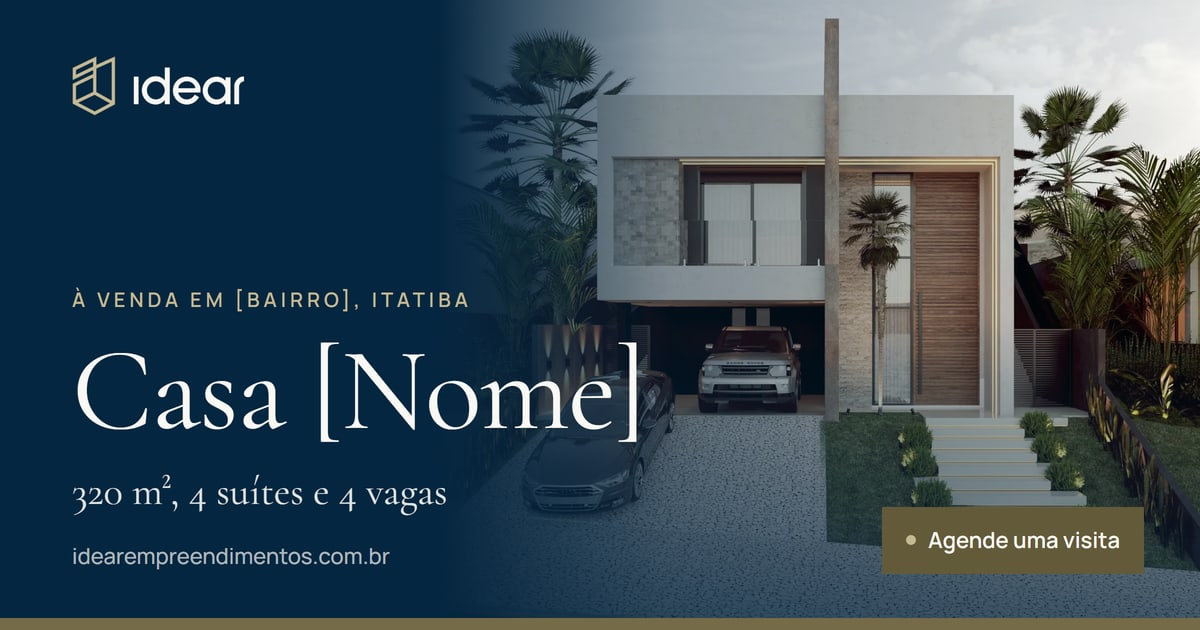
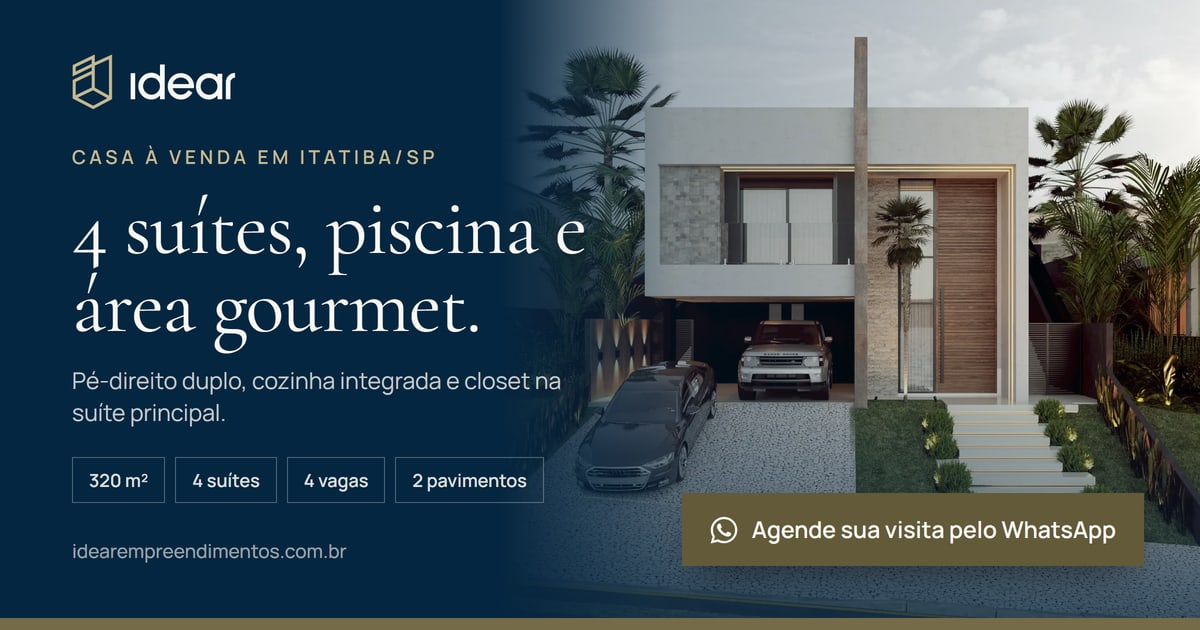
Tira os nomes das casas e refaz as capas de link
- Casa à venda passa a ser "Casa à venda em Itatiba" e é resumida como
  "4 suítes, piscina e área gourmet"; casas entregues aparecem pela
  metragem e pelo ano
- Capas de link com título, linha de apoio, etiquetas de destaque e
  chamada em bronze com ícone do WhatsApp
- Títulos e descrições de compartilhamento reescritos para a casa à venda
  e para a home

diff --git a/components/CapaLink.tsx b/components/CapaLink.tsx
@@ -1,4 +1,5 @@
 import Image from "next/image";
+import WhatsAppIcon from "./WhatsAppIcon";
 
 /*
  * Arte da capa de compartilhamento (Open Graph), 1200x630.
@@ -11,54 +12,65 @@ type Props = {
   chamada: string;
   titulo: string;
   tamanhoTitulo: number;
-  linha?: string;
-  selo?: string;
+  subtitulo?: string;
+  itens?: string[];
+  /** chamada para ação no botão em bronze (com ícone do WhatsApp) */
+  acao: string;
 };
 
-export default function CapaLink({ foto, posicaoFoto = "50% 45%", chamada, titulo, tamanhoTitulo, linha, selo }: Props) {
+export default function CapaLink({ foto, posicaoFoto = "50% 45%", chamada, titulo, tamanhoTitulo, subtitulo, itens, acao }: Props) {
   return (
     // Cobre o resto da página: a captura pega só este quadro de 1200x630
     <div className="fixed inset-0 z-[100] bg-navy-deep">
       <div id="og" className="relative h-[630px] w-[1200px] overflow-hidden bg-navy-deep text-ivory">
         {/* Foto à direita, fundindo com o painel escuro */}
-        <div className="absolute inset-y-0 right-0 w-[760px]">
+        <div className="absolute inset-y-0 right-0 w-[700px]">
           <Image
             src={foto}
             alt=""
             fill
             priority
             quality={90}
-            sizes="760px"
+            sizes="700px"
             className="object-cover"
             style={{ objectPosition: posicaoFoto }}
           />
-          <div className="absolute inset-0 bg-gradient-to-r from-navy-deep via-navy-deep/40 via-30% to-transparent" />
-          <div className="absolute inset-x-0 bottom-0 h-1/2 bg-gradient-to-t from-navy-deep/70 to-transparent" />
+          <div className="absolute inset-0 bg-gradient-to-r from-navy-deep via-navy-deep/35 via-25% to-transparent" />
+          <div className="absolute inset-x-0 bottom-0 h-2/5 bg-gradient-to-t from-navy-deep/75 to-transparent" />
         </div>
 
         {/* Painel de texto */}
-        <div className="relative flex h-full w-[700px] flex-col justify-between py-[56px] pl-[72px]">
+        <div className="relative flex h-full w-[700px] flex-col justify-between pb-[64px] pl-[72px] pt-[54px]">
           <div className="flex items-center gap-4">
-            <Image src="/brand/simbolo-clara.png" alt="" width={416} height={570} className="h-[60px] w-auto" />
-            <Image src="/brand/idear-clara.png" alt="" width={738} height={250} className="h-[38px] w-auto" />
+            <Image src="/brand/simbolo-clara.png" alt="" width={416} height={570} className="h-[56px] w-auto" />
+            <Image src="/brand/idear-clara.png" alt="" width={738} height={250} className="h-[36px] w-auto" />
           </div>
 
           <div>
-            <p className="text-[20px] font-semibold uppercase tracking-[0.2em] text-bronze-light">{chamada}</p>
-            <p className="mt-5 font-serif leading-[0.94] tracking-[-0.015em]" style={{ fontSize: tamanhoTitulo }}>
+            <p className="text-[19px] font-semibold uppercase tracking-[0.2em] text-bronze-light">{chamada}</p>
+            <p className="mt-4 max-w-[600px] font-serif leading-[0.98] tracking-[-0.015em]" style={{ fontSize: tamanhoTitulo }}>
               {titulo}
             </p>
-            {linha ? <p className="mt-6 font-serif text-[40px] leading-none text-ivory/90">{linha}</p> : null}
-            <p className="mt-7 text-[22px] font-medium text-ivory/70">idearempreendimentos.com.br</p>
+            {subtitulo ? <p className="mt-5 max-w-[540px] text-[23px] leading-snug text-ivory/80">{subtitulo}</p> : null}
+            {itens?.length ? (
+              <ul className="mt-7 flex flex-wrap gap-2.5">
+                {itens.map((t) => (
+                  <li key={t} className="border border-ivory/30 px-4 py-2 text-[18px] font-semibold text-ivory/90">
+                    {t}
+                  </li>
+                ))}
+              </ul>
+            ) : null}
           </div>
+
+          <p className="text-[19px] font-medium text-ivory/60">idearempreendimentos.com.br</p>
         </div>
 
-        {selo ? (
-          <div className="absolute bottom-[56px] right-[56px] flex items-center gap-3 bg-bronze-dark px-6 py-4 text-[22px] font-semibold">
-            <span className="h-2.5 w-2.5 rounded-full bg-bronze-light" />
-            {selo}
-          </div>
-        ) : null}
+        {/* Chamada para ação */}
+        <div className="absolute bottom-[64px] right-[56px] flex items-center gap-3.5 bg-bronze-dark px-7 py-[18px] text-[23px] font-semibold shadow-[0_18px_40px_-16px_rgba(0,0,0,0.6)]">
+          <WhatsAppIcon className="h-7 w-7" />
+          {acao}
+        </div>
 
         {/* Faixa em bronze no rodapé, como nos outros projetos */}
         <div className="absolute inset-x-0 bottom-0 h-[12px] bg-bronze" />

diff --git a/components/CasasEntregues.tsx b/components/CasasEntregues.tsx
@@ -100,7 +100,7 @@ export default function CasasEntregues() {
                         i === ativa ? "text-navy" : "text-navy/35 group-hover:text-navy/60"
                       }`}
                     >
-                      {c.nome}
+                      Casa de {c.area} m²
                     </span>
                     <span className={`text-[15px] tabular-nums ${i === ativa ? "text-bronze-dark" : "text-stone"}`}>{c.ano}</span>
                   </span>
@@ -114,7 +114,7 @@ export default function CasasEntregues() {
               <Link href="/casa-a-venda" className="group relative block w-full py-7">
                 <span className="absolute inset-x-0 top-0 h-px bg-navy/15" aria-hidden />
                 <span className="flex items-baseline justify-between gap-6">
-                  <span className="font-serif text-[40px] leading-none text-bronze-dark">Casa {casaAtual.nome}</span>
+                  <span className="font-serif text-[40px] leading-none text-bronze-dark">Casa de {casaAtual.resumo.area} m²</span>
                   <span className="text-[15px] text-bronze-dark">À venda</span>
                 </span>
                 <span className="mt-2 flex items-center gap-2 text-[14px] font-semibold">
@@ -175,7 +175,7 @@ export default function CasasEntregues() {
                   </div>
                   <div className="absolute inset-x-0 bottom-0 p-5 text-ivory">
                     <p className="font-serif text-[18px] italic text-bronze-light">Entregue em {c.ano}</p>
-                    <h3 className="mt-1 font-serif text-[38px] leading-tight">{c.nome}</h3>
+                    <h3 className="mt-1 font-serif text-[38px] leading-tight">Casa de {c.area} m²</h3>
                     <p className="text-[14px] text-ivory/75">
                       {c.bairro}, {c.cidade}
                     </p>
@@ -191,7 +191,7 @@ export default function CasasEntregues() {
           <li className="w-[84vw] shrink-0 snap-start sm:w-[60vw]">
             <Link href="/casa-a-venda" className="flex aspect-[4/5] flex-col justify-end bg-navy p-6 text-ivory">
               <p className="text-[12px] font-semibold uppercase tracking-[0.2em] text-bronze-light">A próxima</p>
-              <p className="mt-3 font-serif text-[40px] leading-tight">Casa {casaAtual.nome}</p>
+              <p className="mt-3 font-serif text-[40px] leading-tight">{casaAtual.resumoCurto}</p>
               <p className="mt-2 text-[15px] text-ivory/75">
                 À venda, {casaAtual.resumo.area} m², {casaAtual.resumo.suites} suítes
               </p>

diff --git a/content/casas.ts b/content/casas.ts
@@ -2,7 +2,7 @@
  * Conteúdo das casas da Idear.
  *
  * Com uma casa à venda por vez, o conteúdo fica no próprio projeto (sem CMS).
- * Quando a casa atual for vendida: mova-a para `casasEntregues` e preencha
+ * Quando a casa atual for vendida: mova-a para `entregas` em content/empresa.ts e preencha
  * `casaAtual` com a próxima.
  *
  * PRÉVIA: tudo entre colchetes e os valores marcados com `provisorio` são
@@ -39,7 +39,10 @@ export type PontoProximo = { categoria: string; nome: string; tempo: string };
 
 export type CasaAtual = {
   slug: string;
-  nome: string;
+  /** Título da casa nas páginas (as casas não têm nome próprio) */
+  manchete: string;
+  /** Resumo curto do que a casa tem, usado em cartões e na capa do link */
+  resumoCurto: string;
   bairro: string;
   cidade: string;
   uf: string;
@@ -70,21 +73,13 @@ export type CasaAtual = {
   localizacao: { descricao: string; pontos: PontoProximo[] };
 };
 
-export type CasaEntregue = {
-  slug: string;
-  nome: string;
-  bairro: string;
-  cidade: string;
-  ano: string;
-  area: string;
-  imagem: Imagem;
-};
 
 const BASE = "/images/casa";
 
 export const casaAtual: CasaAtual = {
   slug: "casa-atual",
-  nome: "[Nome]",
+  manchete: "Casa à venda em Itatiba",
+  resumoCurto: "4 suítes, piscina e área gourmet",
   bairro: "[Bairro]",
   cidade: "Itatiba",
   uf: "SP",
@@ -277,24 +272,3 @@ export const casaAtual: CasaAtual = {
     ],
   },
 };
-
-export const casasEntregues: CasaEntregue[] = [
-  {
-    slug: "casa-entregue-1",
-    nome: "Casa [Nome]",
-    bairro: "[Bairro]",
-    cidade: "Itatiba",
-    ano: "[Ano]",
-    area: "[000] m²",
-    imagem: { src: null, alt: "Casa entregue", ilustrativa: false },
-  },
-  {
-    slug: "casa-entregue-2",
-    nome: "Casa [Nome]",
-    bairro: "[Bairro]",
-    cidade: "Itatiba",
-    ano: "[Ano]",
-    area: "[000] m²",
-    imagem: { src: null, alt: "Casa entregue", ilustrativa: false },
-  },
-];

diff --git a/app/og-cover/page.tsx b/app/og-cover/page.tsx
@@ -2,7 +2,6 @@ import type { Metadata } from "next";
 import { notFound } from "next/navigation";
 import CapaLink from "@/components/CapaLink";
 import { empresa } from "@/content/empresa";
-import { casaAtual } from "@/content/casas";
 
 /*
  * Capa de compartilhamento da home. Só existe em desenvolvimento:
@@ -15,14 +14,23 @@ export const metadata: Metadata = {
 
 export default function OgCover() {
   if (process.env.NODE_ENV === "production") notFound();
+  const n = (trecho: string) => empresa.numeros.find((x) => x.rotulo.includes(trecho));
+  const anos = n("anos construindo");
+  const casas = n("casas entregues");
   return (
     <CapaLink
       foto="/images/casa/fachada-perspectiva.webp"
-      posicaoFoto="55% 42%"
-      chamada="Itatiba/SP"
-      titulo={empresa.hero.titulo}
-      tamanhoTitulo={92}
-      selo={`À venda: Casa ${casaAtual.nome}`}
+      posicaoFoto="58% 42%"
+      chamada={`Incorporadora em ${empresa.cidade}/SP`}
+      titulo="Casas de alto padrão, do terreno às chaves."
+      tamanhoTitulo={66}
+      subtitulo="Uma casa por vez, com projeto, obra e entrega sob a mesma responsabilidade."
+      itens={[
+        anos ? `${anos.valor} anos` : "",
+        casas ? `${casas.valor} casas entregues` : "",
+        "Obras no prazo",
+      ].filter(Boolean)}
+      acao="Casa à venda: agende sua visita"
     />
   );
 }

diff --git a/app/casa-a-venda/page.tsx b/app/casa-a-venda/page.tsx
@@ -18,8 +18,8 @@ import Rodape from "@/components/Rodape";
 import WhatsAppFlutuante from "@/components/WhatsAppFlutuante";
 import BarraCelular from "@/components/BarraCelular";
 
-const titulo = `Casa ${casa.nome}: casa à venda em ${casa.bairro}, ${casa.cidade} | ${site.nome}`;
-const descricao = `${casa.resumo.area} m², ${casa.resumo.suites} suítes e ${casa.resumo.vagas} vagas em ${casa.bairro}, ${casa.cidade}. Pé-direito duplo, área gourmet com churrasqueira e piscina. Agende uma visita.`;
+const titulo = `Casa à venda em ${casa.cidade}: ${casa.resumo.area} m², ${casa.resumo.suites} suítes e piscina | Idear`;
+const descricao = `Pé-direito duplo, área gourmet com churrasqueira, piscina e ${casa.resumo.suites} suítes. Agende sua visita com a Idear pelo WhatsApp.`;
 
 export const metadata: Metadata = {
   title: titulo,
@@ -39,7 +39,7 @@ function DadosEstruturados() {
   const json = {
     "@context": "https://schema.org",
     "@type": "SingleFamilyResidence",
-    name: `Casa ${casa.nome}`,
+    name: casa.manchete,
     description: casa.apresentacao.join(" "),
     url: `${site.url}/casa-a-venda`,
     image: casa.galeria.map((g) => `${site.url}${g.src}`),

diff --git a/app/og-cover/casa/page.tsx b/app/og-cover/casa/page.tsx
@@ -14,15 +14,22 @@ export const metadata: Metadata = {
 
 export default function OgCoverCasa() {
   if (process.env.NODE_ENV === "production") notFound();
+  const pavimentos = casa.ficha.find((f) => f.rotulo === "Pavimentos")?.valor;
   return (
     <CapaLink
       foto="/images/casa/fachada-frontal.webp"
-      posicaoFoto="50% 40%"
-      chamada={`À venda em ${casa.bairro}, ${casa.cidade}`}
-      titulo={`Casa ${casa.nome}`}
-      tamanhoTitulo={118}
-      linha={`${casa.resumo.area} m², ${casa.resumo.suites} suítes e ${casa.resumo.vagas} vagas`}
-      selo="Agende uma visita"
+      posicaoFoto="52% 40%"
+      chamada={`Casa à venda em ${casa.cidade}/${casa.uf}`}
+      titulo={`${casa.resumoCurto}.`}
+      tamanhoTitulo={80}
+      subtitulo="Pé-direito duplo, cozinha integrada e closet na suíte principal."
+      itens={[
+        `${casa.resumo.area} m²`,
+        `${casa.resumo.suites} suítes`,
+        `${casa.resumo.vagas} vagas`,
+        pavimentos ? `${pavimentos} pavimentos` : "",
+      ].filter(Boolean)}
+      acao="Agende sua visita pelo WhatsApp"
     />
   );
 }

diff --git a/content/empresa.ts b/content/empresa.ts
@@ -9,7 +9,6 @@ const BASE = "/images/casa";
 
 export type Entrega = {
   slug: string;
-  nome: string;
   bairro: string;
   cidade: string;
   ano: string;
@@ -100,8 +99,7 @@ export const empresa = {
   /** Casas entregues (exemplos para a prévia; trocar pelas casas reais com fotos reais) */
   entregas: [
     {
-      slug: "casa-jacaranda",
-      nome: "Casa Jacarandá",
+      slug: "casa-2024",
       bairro: "[Bairro]",
       cidade: "Itatiba",
       ano: "2024",
@@ -114,8 +112,7 @@ export const empresa = {
       alt: "Área externa com piscina e deck de madeira",
     },
     {
-      slug: "casa-ipe",
-      nome: "Casa Ipê",
+      slug: "casa-2022",
       bairro: "[Bairro]",
       cidade: "Itatiba",
       ano: "2022",
@@ -128,8 +125,7 @@ export const empresa = {
       alt: "Sala com pé-direito duplo e janelas altas",
     },
     {
-      slug: "casa-aroeira",
-      nome: "Casa Aroeira",
+      slug: "casa-2019",
       bairro: "[Bairro]",
       cidade: "Itatiba",
       ano: "2019",

diff --git a/components/HeroEmpresa.tsx b/components/HeroEmpresa.tsx
@@ -40,7 +40,7 @@ export default function HeroEmpresa() {
             <span className="relative inline-flex h-2 w-2 rounded-full bg-bronze-light" />
           </span>
           <span>
-            <span className="font-semibold">À venda:</span> Casa {casa.nome}
+            <span className="font-semibold">Casa à venda:</span> {casa.resumoCurto}
           </span>
         </span>
         <Seta />
@@ -100,7 +100,7 @@ export default function HeroEmpresa() {
                 </span>
                 À venda agora
               </p>
-              <p className="mt-3 font-serif text-[32px] leading-tight">Casa {casa.nome}</p>
+              <p className="mt-3 font-serif text-[30px] leading-tight">{casa.resumoCurto}</p>
               <p className="mt-1 text-[14px] text-ivory/70">
                 {casa.bairro}, {casa.resumo.area} m², {casa.resumo.suites} suítes
               </p>

diff --git a/app/not-found.tsx b/app/not-found.tsx
@@ -4,7 +4,6 @@ import Link from "next/link";
 import Simbolo from "@/components/Simbolo";
 import { LogoHorizontal } from "@/components/Logo";
 import { linkWhatsApp } from "@/lib/site";
-import { casaAtual } from "@/content/casas";
 
 export const metadata: Metadata = {
   title: "Página não encontrada | Idear Empreendimentos",
@@ -37,7 +36,7 @@ export default function NaoEncontrada() {
             Voltar para o início
           </Link>
           <Link href="/casa-a-venda" className="btn-outline-claro">
-            Ver a Casa {casaAtual.nome}
+            Ver a casa à venda
           </Link>
         </div>
         <a href={linkWhatsApp("Olá, vim pelo site da Idear.")} target="_blank" rel="noopener" className="link-line mt-8 self-start text-[15px] text-ivory/80">

diff --git a/components/CasaDestaque.tsx b/components/CasaDestaque.tsx
@@ -35,8 +35,8 @@ export default function CasaDestaque() {
             </span>
             À venda agora
           </p>
-          <h2 id="a-venda-titulo" data-split className="display mt-5 text-[56px] text-ivory md:text-[88px] lg:text-[104px]">
-            Casa {casa.nome}
+          <h2 id="a-venda-titulo" data-split className="display mt-5 max-w-[12ch] text-[48px] text-ivory md:text-[72px] lg:text-[80px]">
+            {casa.resumoCurto}.
           </h2>
           <p className="mt-3 text-[15px] text-ivory/70">
             {casa.bairro}, {casa.cidade}

diff --git a/app/layout.tsx b/app/layout.tsx
@@ -20,8 +20,8 @@ const sans = Manrope({
   display: "swap",
 });
 
-const titulo = `${site.nome} | Casas de alto padrão em ${empresa.cidade}`;
-const descricao = `${empresa.hero.texto} Conheça a Casa ${casaAtual.nome}, à venda em ${casaAtual.bairro}.`;
+const titulo = `${site.nome} | Casas de alto padrão em ${empresa.cidade}/SP`;
+const descricao = `Casa à venda em ${empresa.cidade}: ${casaAtual.resumo.area} m², ${casaAtual.resumoCurto}. Conheça a Idear e agende sua visita.`;
 
 export const metadata: Metadata = {
   metadataBase: new URL(site.url),

diff --git a/components/Hero.tsx b/components/Hero.tsx
@@ -36,7 +36,7 @@ export default function Hero() {
             </p>
             <h1 id="hero-titulo" className="mt-5">
               <span data-split="hero" className="display block text-[64px] text-ivory sm:text-[96px] lg:text-[clamp(110px,11vw,176px)]">
-                Casa {casa.nome}
+                {casa.manchete}
               </span>
               <span className="mt-4 block max-w-[30ch] font-serif text-[22px] leading-snug text-ivory/85 md:text-[28px]" data-hero-fade>
                 {casa.titulo}
